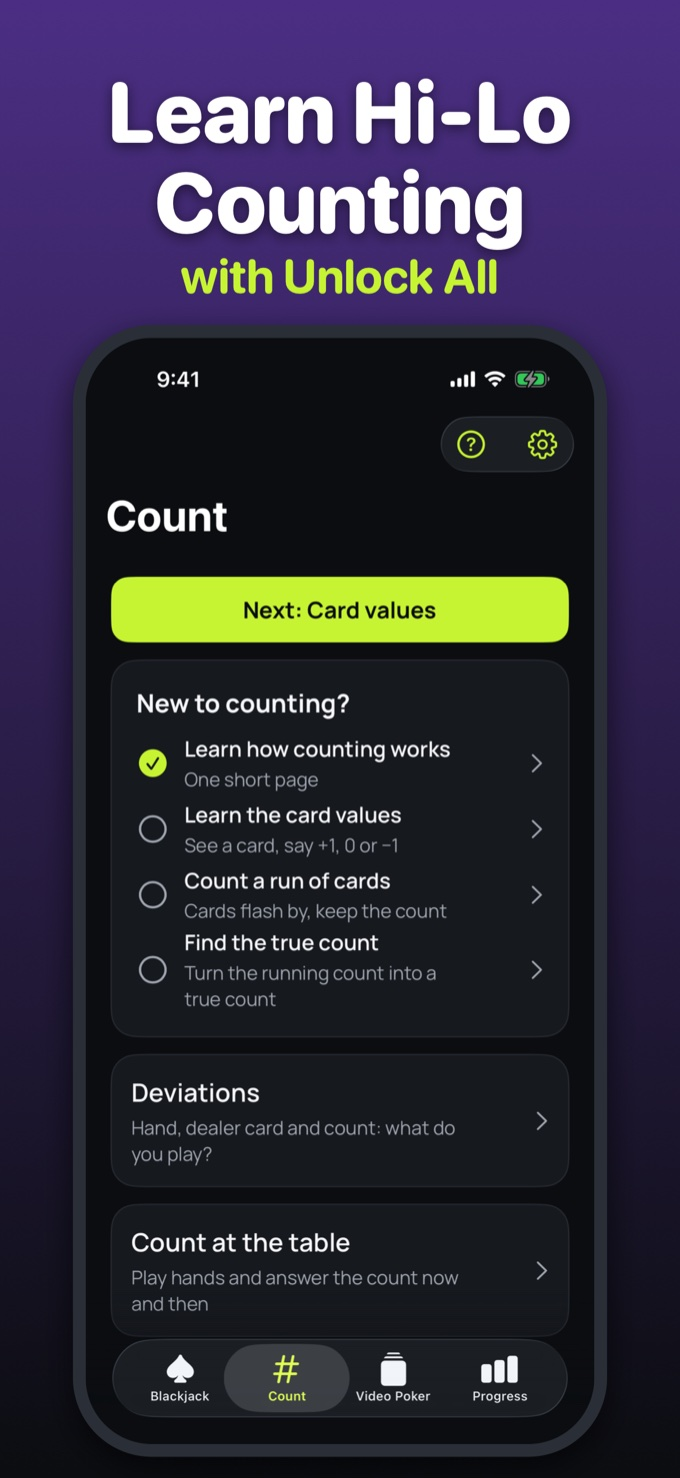
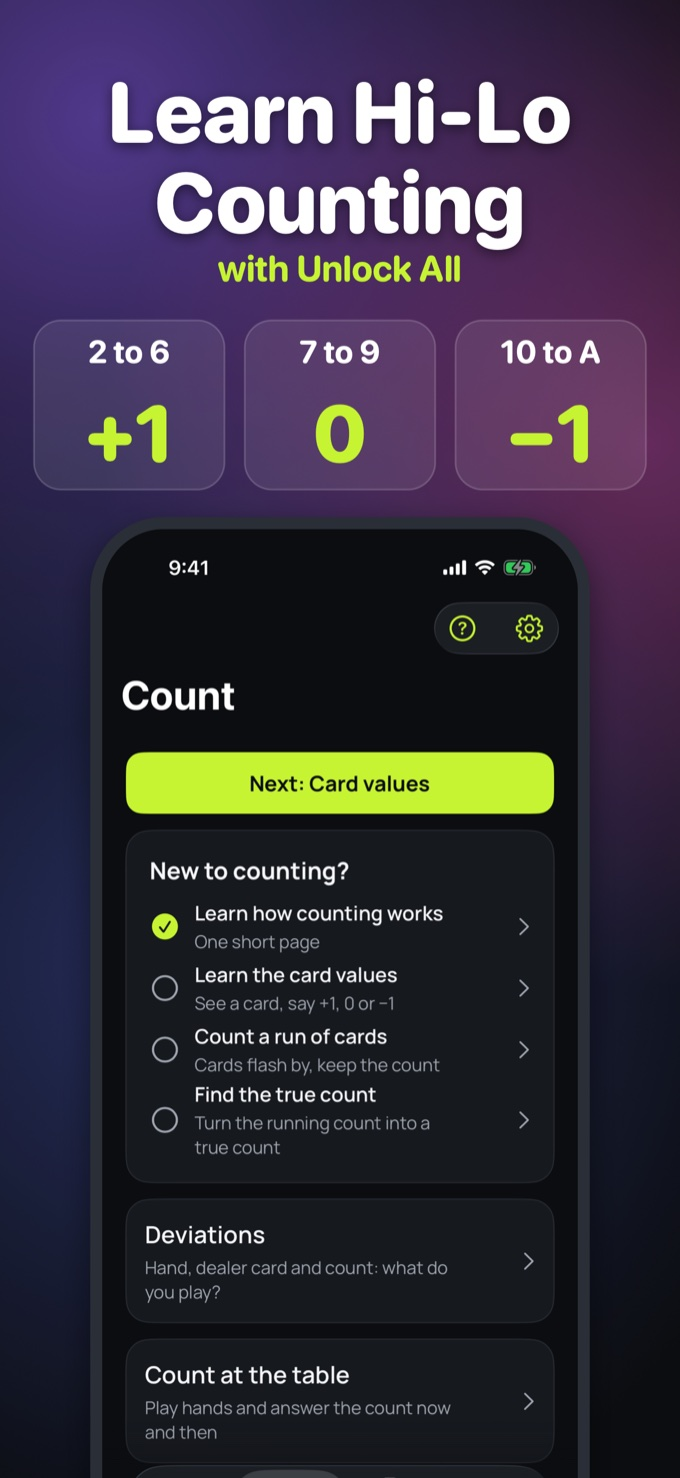
feat: use the redesigned app screenshots
CardTrainer and CitizenCoach App Store screenshots now use the aurora style. CitizenCoach's study, quiz and readiness slots show the Read or Listen, quiz and home images; alt text and the generated chapter pages follow.

diff --git a/index.html b/index.html
@@ -73,9 +73,9 @@
               </div>
             </div>
             <div class="app-shots">
-              <img src="/assets/citizencoach-readiness.jpg" width="680" height="1477" alt="Captioned App Store image: Know What to Review, above the home screen with a 30-day test countdown, overall readiness and readiness by chapter" loading="lazy">
+              <img src="/assets/citizencoach-readiness.jpg" width="680" height="1477" alt="Captioned App Store image: Pass Your Citizenship Test, free to start with no ads or subscription, above the home screen with a 30-day test countdown, overall readiness and readiness by chapter" loading="lazy">
               <img src="/assets/citizencoach-quiz.jpg" width="680" height="1477" alt="Captioned App Store image: Learn From Every Answer, above a quiz question with the right answer marked and a short explanation" loading="lazy">
-              <img src="/assets/citizencoach-study.jpg" width="680" height="1477" alt="Captioned App Store image: Study at Your Pace, 3 chapters free with no ads or subscription, above the Rights chapter in the study screen" loading="lazy">
+              <img src="/assets/citizencoach-study.jpg" width="680" height="1477" alt="Captioned App Store image: Read or Listen, English and French, above the Rights chapter being read aloud in the study screen" loading="lazy">
             </div>
           </article>
 
@@ -103,9 +103,9 @@
               </div>
             </div>
             <div class="app-shots">
-              <img src="/assets/cardtrainer-practice.jpg" width="680" height="1479" alt="Captioned App Store image: Master Basic Strategy, free with no ads or subscription, above the Blackjack practice screen" loading="lazy">
-              <img src="/assets/cardtrainer-counting.jpg" width="680" height="1478" alt="Captioned screenshot: Learn Hi-Lo Counting, with Unlock All, showing the card counting drills" loading="lazy">
-              <img src="/assets/cardtrainer-video-poker.jpg" width="680" height="1478" alt="Captioned screenshot: Perfect Video Poker Holds, with Unlock All, showing feedback comparing a hold with the best hold" loading="lazy">
+              <img src="/assets/cardtrainer-practice.jpg" width="680" height="1478" alt="Captioned App Store image: Master Basic Strategy, free with no ads or subscription, above the Blackjack practice screen with a hint for the hand" loading="lazy">
+              <img src="/assets/cardtrainer-counting.jpg" width="680" height="1478" alt="Captioned App Store image: Learn Hi-Lo Counting, with Unlock All, above the card values and the counting lessons" loading="lazy">
+              <img src="/assets/cardtrainer-video-poker.jpg" width="680" height="1478" alt="Captioned App Store image: Perfect Video Poker Holds, with Unlock All, above feedback comparing a hold with the best hold" loading="lazy">
             </div>
           </article>
         </div>

diff --git a/blackjack-video-poker-coach/index.html b/blackjack-video-poker-coach/index.html
@@ -59,7 +59,7 @@
             </div>
           </div>
           <figure class="app-shot">
-            <img src="/assets/cardtrainer-practice.jpg" width="680" height="1479" alt="Captioned App Store image: Master Basic Strategy, free with no ads or subscription, above the Blackjack practice screen" loading="lazy">
+            <img src="/assets/cardtrainer-practice.jpg" width="680" height="1478" alt="Captioned App Store image: Master Basic Strategy, free with no ads or subscription, above the Blackjack practice screen with a hint for the hand" loading="lazy">
           </figure>
         </article>
       </div>
@@ -86,7 +86,7 @@
           <h3>Keep the count</h3>
           <p>Work through card values, running count and true count, then practise deviations that change the usual play.</p>
           <span class="mode-detail">Unlocked with one purchase</span>
-          <img class="training-shot" src="/assets/cardtrainer-counting.jpg" width="680" height="1478" loading="lazy" alt="Captioned screenshot: Learn Hi-Lo Counting, with Unlock All, showing the card counting drills">
+          <img class="training-shot" src="/assets/cardtrainer-counting.jpg" width="680" height="1478" loading="lazy" alt="Captioned App Store image: Learn Hi-Lo Counting, with Unlock All, above the card values and the counting lessons">
         </article>
         <article class="training-card">
           <span class="mode-number">02</span>
@@ -99,7 +99,7 @@
           <h3>Find the best hold</h3>
           <p>Practise Jacks or Better and Deuces Wild. Compare your hold with the best one for the hand.</p>
           <span class="mode-detail">Unlocked with one purchase</span>
-          <img class="training-shot" src="/assets/cardtrainer-video-poker.jpg" width="680" height="1478" loading="lazy" alt="Captioned screenshot: Perfect Video Poker Holds, with Unlock All, showing feedback comparing a hold with the best hold">
+          <img class="training-shot" src="/assets/cardtrainer-video-poker.jpg" width="680" height="1478" loading="lazy" alt="Captioned App Store image: Perfect Video Poker Holds, with Unlock All, above feedback comparing a hold with the best hold">
         </article>
       </div>
     </section>

diff --git a/fr/examen-citoyennete-canadienne/index.html b/fr/examen-citoyennete-canadienne/index.html
@@ -325,7 +325,7 @@ document.getElementById('quiz-app').hidden = false;
             </div>
           </div>
           <figure class="app-shot">
-            <img src="/assets/citizencoach-study-fr.jpg" width="680" height="1477" alt="Image de l’App Store avec légende : Étudiez à votre rythme, 3 chapitres gratuits, sans publicité ni abonnement, au-dessus du chapitre Les droits dans l’écran d’étude" loading="lazy">
+            <img src="/assets/citizencoach-study-fr.jpg" width="680" height="1477" alt="Image de l’App Store avec légende : Lisez ou écoutez, en français et en anglais, au-dessus du chapitre Les droits lu à voix haute dans l’écran d’étude" loading="lazy">
           </figure>
         </article>
       </div>
@@ -352,7 +352,7 @@ document.getElementById('quiz-app').hidden = false;
           <p class="app-kind">Préparation par chapitre</p>
           <h3>Sachez quoi réviser</h3>
           <p>Voyez quelles parties du guide vous connaissez déjà, chapitre par chapitre.</p>
-          <img class="training-shot" src="/assets/citizencoach-readiness-fr.jpg" width="680" height="1477" loading="lazy" alt="Image de l’App Store avec légende : Sachez quoi réviser, au-dessus de l’écran Accueil avec la préparation par chapitre">
+          <img class="training-shot" src="/assets/citizencoach-readiness-fr.jpg" width="680" height="1477" loading="lazy" alt="Image de l’App Store avec légende : Réussir l’examen de citoyenneté, au-dessus de l’écran Accueil avec la préparation par chapitre">
         </article>
       </div>
     </section>

diff --git a/fr/examen-citoyennete-canadienne/histoire/index.html b/fr/examen-citoyennete-canadienne/histoire/index.html
@@ -1087,7 +1087,7 @@
             </div>
           </div>
           <figure class="app-shot">
-            <img src="/assets/citizencoach-study-fr.jpg" width="680" height="1477" alt="Image de l’App Store avec légende : Étudiez à votre rythme, 3 chapitres gratuits, sans publicité ni abonnement, au-dessus du chapitre Les droits dans l’écran d’étude" loading="lazy">
+            <img src="/assets/citizencoach-study-fr.jpg" width="680" height="1477" alt="Image de l’App Store avec légende : Lisez ou écoutez, en français et en anglais, au-dessus du chapitre Les droits lu à voix haute dans l’écran d’étude" loading="lazy">
           </figure>
         </article>
       </div>
@@ -1114,7 +1114,7 @@
           <p class="app-kind">Préparation par chapitre</p>
           <h3>Sachez quoi réviser</h3>
           <p>Voyez quelles parties du guide vous connaissez déjà, chapitre par chapitre.</p>
-          <img class="training-shot" src="/assets/citizencoach-readiness-fr.jpg" width="680" height="1477" loading="lazy" alt="Image de l’App Store avec légende : Sachez quoi réviser, au-dessus de l’écran Accueil avec la préparation par chapitre">
+          <img class="training-shot" src="/assets/citizencoach-readiness-fr.jpg" width="680" height="1477" loading="lazy" alt="Image de l’App Store avec légende : Réussir l’examen de citoyenneté, au-dessus de l’écran Accueil avec la préparation par chapitre">
         </article>
       </div>
     </section>

diff --git a/fr/examen-citoyennete-canadienne/droits/index.html b/fr/examen-citoyennete-canadienne/droits/index.html
@@ -322,7 +322,7 @@
             </div>
           </div>
           <figure class="app-shot">
-            <img src="/assets/citizencoach-study-fr.jpg" width="680" height="1477" alt="Image de l’App Store avec légende : Étudiez à votre rythme, 3 chapitres gratuits, sans publicité ni abonnement, au-dessus du chapitre Les droits dans l’écran d’étude" loading="lazy">
+            <img src="/assets/citizencoach-study-fr.jpg" width="680" height="1477" alt="Image de l’App Store avec légende : Lisez ou écoutez, en français et en anglais, au-dessus du chapitre Les droits lu à voix haute dans l’écran d’étude" loading="lazy">
           </figure>
         </article>
       </div>
@@ -349,7 +349,7 @@
           <p class="app-kind">Préparation par chapitre</p>
           <h3>Sachez quoi réviser</h3>
           <p>Voyez quelles parties du guide vous connaissez déjà, chapitre par chapitre.</p>
-          <img class="training-shot" src="/assets/citizencoach-readiness-fr.jpg" width="680" height="1477" loading="lazy" alt="Image de l’App Store avec légende : Sachez quoi réviser, au-dessus de l’écran Accueil avec la préparation par chapitre">
+          <img class="training-shot" src="/assets/citizencoach-readiness-fr.jpg" width="680" height="1477" loading="lazy" alt="Image de l’App Store avec légende : Réussir l’examen de citoyenneté, au-dessus de l’écran Accueil avec la préparation par chapitre">
         </article>
       </div>
     </section>

diff --git a/fr/examen-citoyennete-canadienne/qui-nous-sommes/index.html b/fr/examen-citoyennete-canadienne/qui-nous-sommes/index.html
@@ -331,7 +331,7 @@
             </div>
           </div>
           <figure class="app-shot">
-            <img src="/assets/citizencoach-study-fr.jpg" width="680" height="1477" alt="Image de l’App Store avec légende : Étudiez à votre rythme, 3 chapitres gratuits, sans publicité ni abonnement, au-dessus du chapitre Les droits dans l’écran d’étude" loading="lazy">
+            <img src="/assets/citizencoach-study-fr.jpg" width="680" height="1477" alt="Image de l’App Store avec légende : Lisez ou écoutez, en français et en anglais, au-dessus du chapitre Les droits lu à voix haute dans l’écran d’étude" loading="lazy">
           </figure>
         </article>
       </div>
@@ -358,7 +358,7 @@
           <p class="app-kind">Préparation par chapitre</p>
           <h3>Sachez quoi réviser</h3>
           <p>Voyez quelles parties du guide vous connaissez déjà, chapitre par chapitre.</p>
-          <img class="training-shot" src="/assets/citizencoach-readiness-fr.jpg" width="680" height="1477" loading="lazy" alt="Image de l’App Store avec légende : Sachez quoi réviser, au-dessus de l’écran Accueil avec la préparation par chapitre">
+          <img class="training-shot" src="/assets/citizencoach-readiness-fr.jpg" width="680" height="1477" loading="lazy" alt="Image de l’App Store avec légende : Réussir l’examen de citoyenneté, au-dessus de l’écran Accueil avec la préparation par chapitre">
         </article>
       </div>
     </section>

diff --git a/canada-citizenship-test/index.html b/canada-citizenship-test/index.html
@@ -325,7 +325,7 @@ document.getElementById('quiz-app').hidden = false;
             </div>
           </div>
           <figure class="app-shot">
-            <img src="/assets/citizencoach-study.jpg" width="680" height="1477" alt="Captioned App Store image: Study at Your Pace, 3 chapters free with no ads or subscription, above the Rights chapter in the study screen" loading="lazy">
+            <img src="/assets/citizencoach-study.jpg" width="680" height="1477" alt="Captioned App Store image: Read or Listen, English and French, above the Rights chapter being read aloud in the study screen" loading="lazy">
           </figure>
         </article>
       </div>
@@ -352,7 +352,7 @@ document.getElementById('quiz-app').hidden = false;
           <p class="app-kind">Readiness by chapter</p>
           <h3>Know what to review</h3>
           <p>See which parts of the guide you already know, chapter by chapter.</p>
-          <img class="training-shot" src="/assets/citizencoach-readiness.jpg" width="680" height="1477" loading="lazy" alt="Captioned App Store image: Know What to Review, above the Home screen showing readiness by chapter">
+          <img class="training-shot" src="/assets/citizencoach-readiness.jpg" width="680" height="1477" loading="lazy" alt="Captioned App Store image: Pass Your Citizenship Test, above the Home screen showing readiness by chapter">
         </article>
       </div>
     </section>

diff --git a/canada-citizenship-test/history/index.html b/canada-citizenship-test/history/index.html
@@ -1087,7 +1087,7 @@
             </div>
           </div>
           <figure class="app-shot">
-            <img src="/assets/citizencoach-study.jpg" width="680" height="1477" alt="Captioned App Store image: Study at Your Pace, 3 chapters free with no ads or subscription, above the Rights chapter in the study screen" loading="lazy">
+            <img src="/assets/citizencoach-study.jpg" width="680" height="1477" alt="Captioned App Store image: Read or Listen, English and French, above the Rights chapter being read aloud in the study screen" loading="lazy">
           </figure>
         </article>
       </div>
@@ -1114,7 +1114,7 @@
           <p class="app-kind">Readiness by chapter</p>
           <h3>Know what to review</h3>
           <p>See which parts of the guide you already know, chapter by chapter.</p>
-          <img class="training-shot" src="/assets/citizencoach-readiness.jpg" width="680" height="1477" loading="lazy" alt="Captioned App Store image: Know What to Review, above the Home screen showing readiness by chapter">
+          <img class="training-shot" src="/assets/citizencoach-readiness.jpg" width="680" height="1477" loading="lazy" alt="Captioned App Store image: Pass Your Citizenship Test, above the Home screen showing readiness by chapter">
         </article>
       </div>
     </section>

diff --git a/canada-citizenship-test/rights/index.html b/canada-citizenship-test/rights/index.html
@@ -322,7 +322,7 @@
             </div>
           </div>
           <figure class="app-shot">
-            <img src="/assets/citizencoach-study.jpg" width="680" height="1477" alt="Captioned App Store image: Study at Your Pace, 3 chapters free with no ads or subscription, above the Rights chapter in the study screen" loading="lazy">
+            <img src="/assets/citizencoach-study.jpg" width="680" height="1477" alt="Captioned App Store image: Read or Listen, English and French, above the Rights chapter being read aloud in the study screen" loading="lazy">
           </figure>
         </article>
       </div>
@@ -349,7 +349,7 @@
           <p class="app-kind">Readiness by chapter</p>
           <h3>Know what to review</h3>
           <p>See which parts of the guide you already know, chapter by chapter.</p>
-          <img class="training-shot" src="/assets/citizencoach-readiness.jpg" width="680" height="1477" loading="lazy" alt="Captioned App Store image: Know What to Review, above the Home screen showing readiness by chapter">
+          <img class="training-shot" src="/assets/citizencoach-readiness.jpg" width="680" height="1477" loading="lazy" alt="Captioned App Store image: Pass Your Citizenship Test, above the Home screen showing readiness by chapter">
         </article>
       </div>
     </section>

diff --git a/canada-citizenship-test/who-we-are/index.html b/canada-citizenship-test/who-we-are/index.html
@@ -331,7 +331,7 @@
             </div>
           </div>
           <figure class="app-shot">
-            <img src="/assets/citizencoach-study.jpg" width="680" height="1477" alt="Captioned App Store image: Study at Your Pace, 3 chapters free with no ads or subscription, above the Rights chapter in the study screen" loading="lazy">
+            <img src="/assets/citizencoach-study.jpg" width="680" height="1477" alt="Captioned App Store image: Read or Listen, English and French, above the Rights chapter being read aloud in the study screen" loading="lazy">
           </figure>
         </article>
       </div>
@@ -358,7 +358,7 @@
           <p class="app-kind">Readiness by chapter</p>
           <h3>Know what to review</h3>
           <p>See which parts of the guide you already know, chapter by chapter.</p>
-          <img class="training-shot" src="/assets/citizencoach-readiness.jpg" width="680" height="1477" loading="lazy" alt="Captioned App Store image: Know What to Review, above the Home screen showing readiness by chapter">
+          <img class="training-shot" src="/assets/citizencoach-readiness.jpg" width="680" height="1477" loading="lazy" alt="Captioned App Store image: Pass Your Citizenship Test, above the Home screen showing readiness by chapter">
         </article>
       </div>
     </section>

diff --git a/docs/assets.md b/docs/assets.md
@@ -11,6 +11,8 @@ Production app imagery is copied from local app exports. The captioned screensho
 
 - `assets/citizencoach-icon.png` — `citizencoach/CitizenCoach/Assets.xcassets/AppIcon.appiconset/AppIcon.png`, resized to 128px square.
 
-- `assets/citizencoach-study.jpg`, `assets/citizencoach-study-fr.jpg` — `citizencoach/scratch/appstore-screenshots/captioned/{en,fr}/iphone/01-study.png`, resized to 680px wide, JPEG quality 68 (84 gave 247 KB and 262 KB, over the 200 KB limit).
-- `assets/citizencoach-quiz.jpg`, `assets/citizencoach-quiz-fr.jpg` — `citizencoach/scratch/appstore-screenshots/captioned/{en,fr}/iphone/03-quiz.png`, resized to 680px wide, JPEG quality 84.
-- `assets/citizencoach-readiness.jpg`, `assets/citizencoach-readiness-fr.jpg` — `citizencoach/scratch/appstore-screenshots/captioned/{en,fr}/iphone/05-readiness.png`, resized to 680px wide, JPEG quality 84. All six were checked visually for personal information; none was present (sample study text and sample readiness figures only).
+- `assets/citizencoach-study.jpg`, `assets/citizencoach-study-fr.jpg` — `citizencoach/scratch/appstore-screenshots/captioned/{en,fr}/iphone/04-listen.png`, resized to 680px wide, JPEG quality 68 (84 gave 251 KB and 263 KB, over the 200 KB limit).
+- `assets/citizencoach-quiz.jpg`, `assets/citizencoach-quiz-fr.jpg` — `citizencoach/scratch/appstore-screenshots/captioned/{en,fr}/iphone/02-quiz.png`, resized to 680px wide, JPEG quality 84.
+- `assets/citizencoach-readiness.jpg`, `assets/citizencoach-readiness-fr.jpg` — `citizencoach/scratch/appstore-screenshots/captioned/{en,fr}/iphone/01-home.png`, resized to 680px wide, JPEG quality 84. All six were checked visually for personal information; none was present (sample study text and sample readiness figures only).
+
+All nine screenshots were replaced on 2026-10-22 with the redesigned captioned exports from the same folders, same sizes and quality. The file names stay the same, so `citizencoach-study*.jpg` now holds the Read or Listen image.
